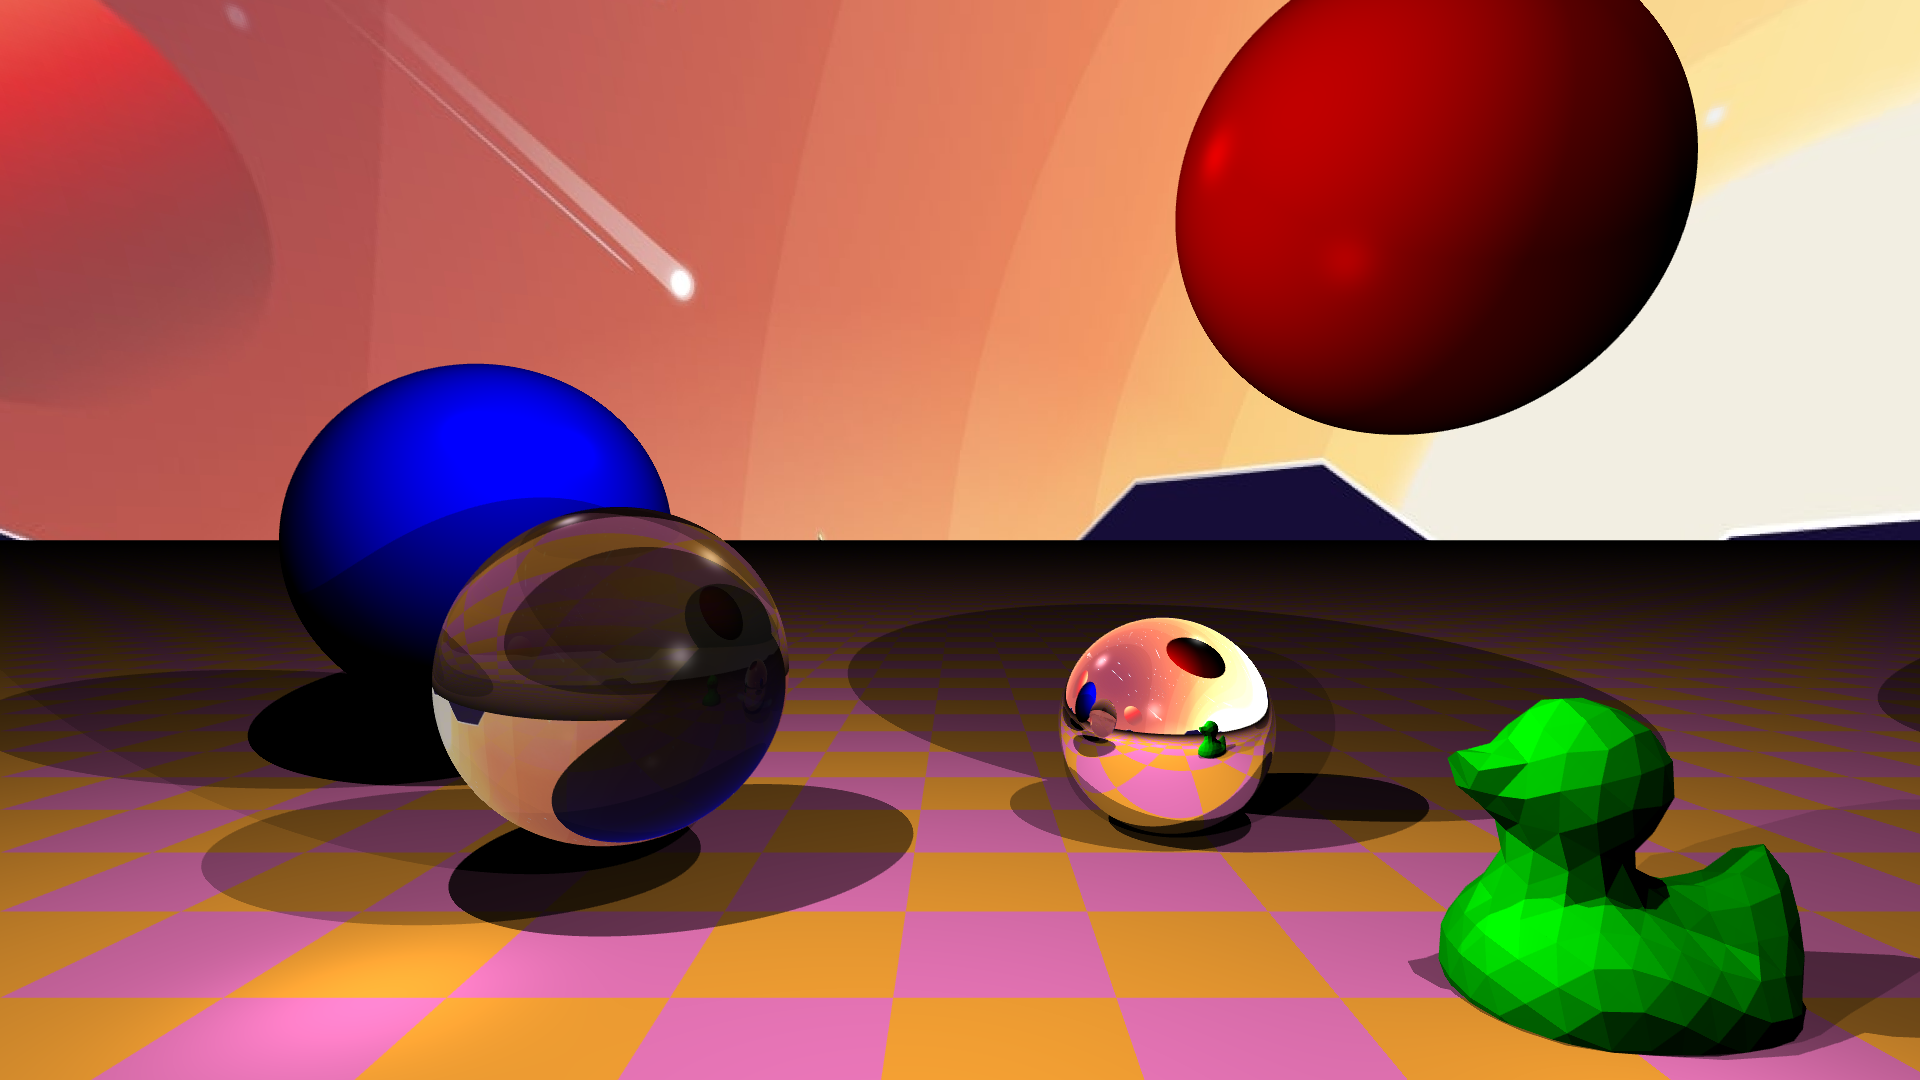
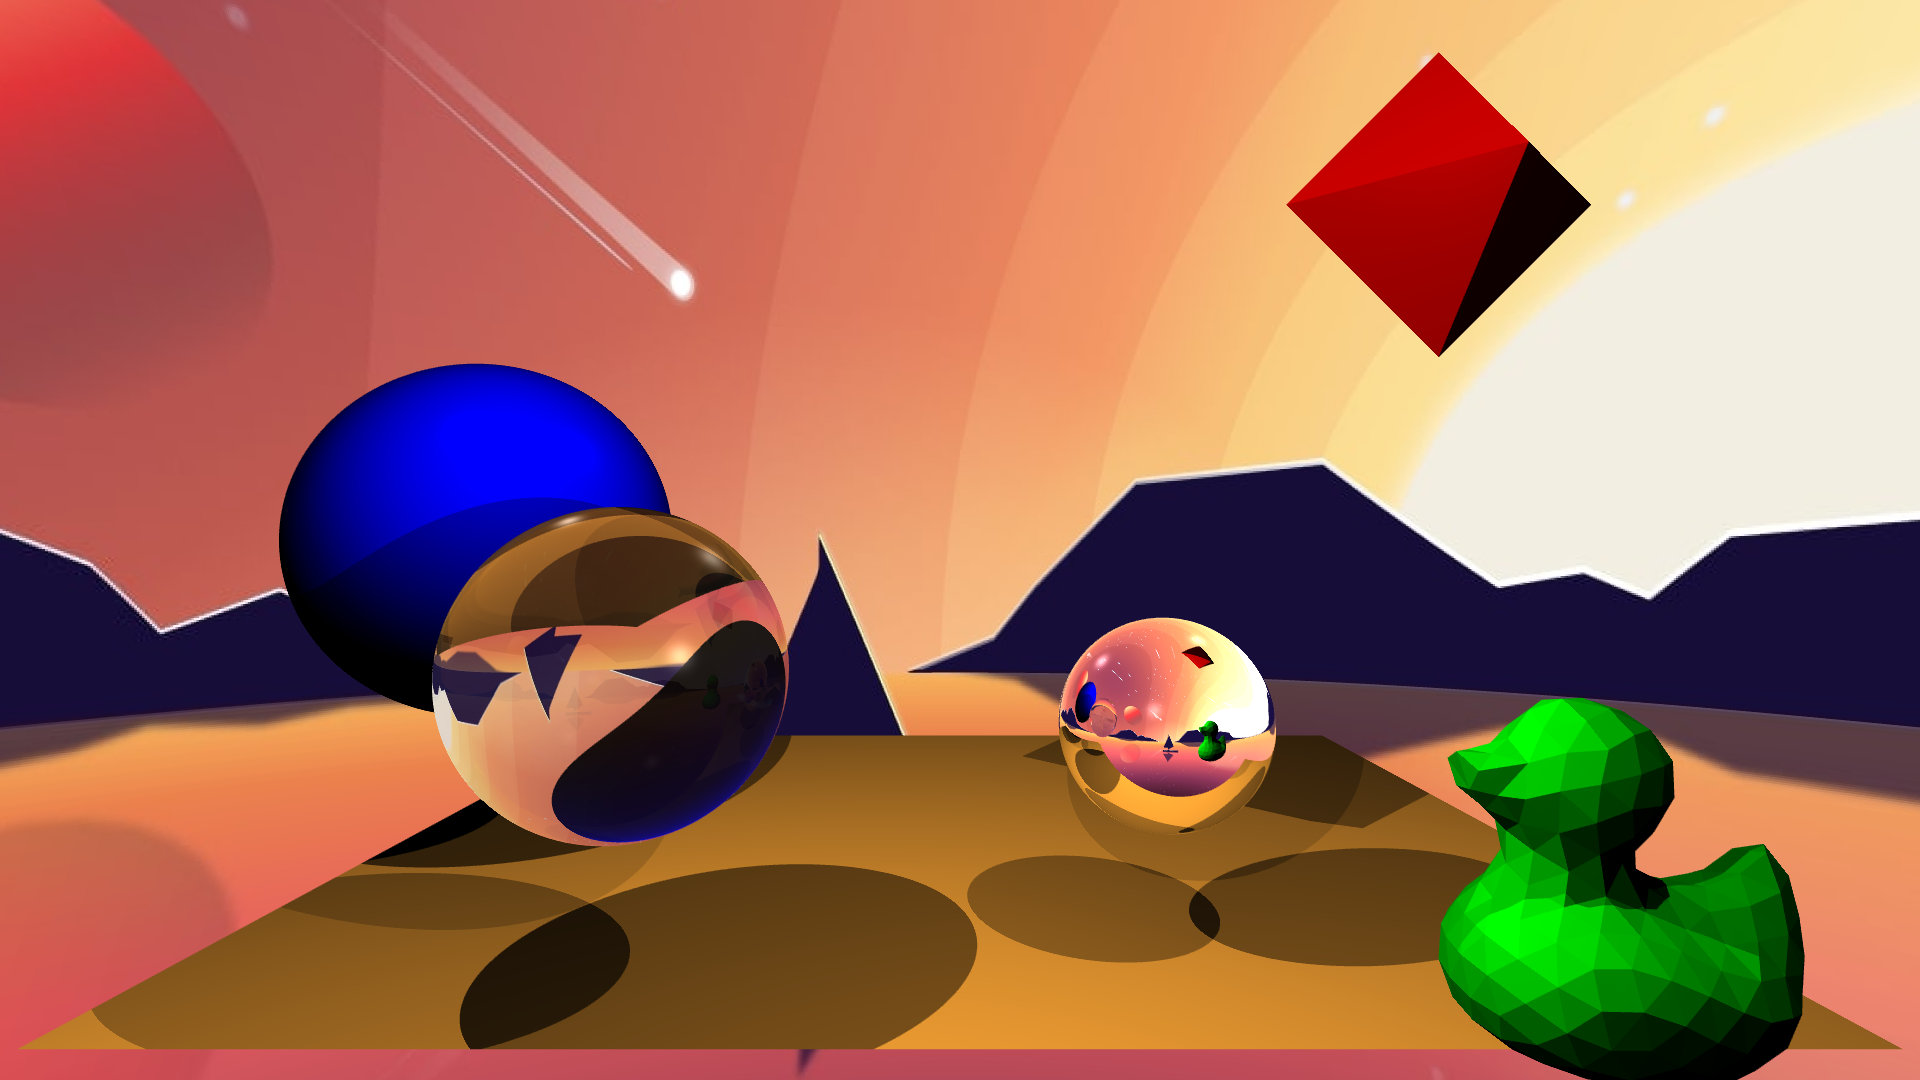
Changed scenes

diff --git a/main.cpp b/main.cpp
@@ -160,7 +160,7 @@ RGB cast_ray(const Ray &ray, const std::vector<Object *> &objects,
             Ray refraction_ray(refract_start, refract_dir.normalize());
 
             // Casting refraction ray
-            refraction_result = cast_ray(refraction_ray, objects, lights, depth + 1) * 0.9;
+            refraction_result = cast_ray(refraction_ray, objects, lights, depth + 1);
         } else {
             reflection_result = reflection_result * 0.9;
         }
@@ -308,26 +308,36 @@ int main (int argc, char **argv) {
     switch (scene_number)
     {
         // Basic scene
+        // Bubbles underwater
     case 1:
 
         w = 1280, h = 720;
+        smoothness = 2;
 
-        load_bg_img("white_mountains.jpg");
+        // load_bg_img("white_mountains.jpg");
+        load_bg_img("underwater.jpg");
 
         lights.push_back(Light(Point( 1500, -350, -300), 0.5));
-        lights.push_back(Light(Point(430, 0, -100), 0.75));
-        lights.push_back(Light(Point(1000, 550, -400), 0.4));
+        lights.push_back(Light(Point(430, 0, -100), 0.4));
+        lights.push_back(Light(Point(1000, 550, -400), 0.75));
 
-        objects.push_back(new Sphere(300, Point(150, 540, 700), get_material(PLASTIC, BLUE)));    // Blue under the tree
-        objects.push_back(new Sphere(150, Point(1250, 800, 400), get_material(METAL, BLUE))); // Mirror on the right
+        objects.push_back(new Sphere(300, Point(150, 540, 700), get_material(METAL, BLUE)));    // Blue under the tree
+        objects.push_back(new Sphere(150, Point(1250, 800, 200), get_material(GLASS, BLUE))); // Mirror on the right
         objects.push_back(new Sphere(200, Point(550, 700, 200), get_material(GLASS)));  // Glass under the tree
-        
+        objects.push_back(new Sphere(50, Point(1550, 100, 300), get_material(METAL)));
+        objects.push_back(new Sphere(80, Point(1550, 900, 700), get_material(PLASTIC, BLUE)));
+        objects.push_back(new Sphere(50, Point(100, 300, 400), get_material(PLASTIC, LIGHT_BLUE)));
+        objects.push_back(new Sphere(150, Point(960, 100, 300), get_material(METAL)));
+        objects.push_back(new Sphere(80, Point(1300, 300, 200), get_material(PLASTIC, LIGHT_BLUE)));
+
+
+
         // objects.push_back(new SceneFloor(Point(950, 950, 0), get_material(PLASTIC, DARK_PINK), WHITE, 200));   // Floor
-        objects.push_back(new Rectangle(fpos, get_material(PLASTIC, DARK_PINK), fpos + Point(-1100, 0, -800), fpos + Point(-1100, 0, 1000), fpos + Point(1100, 0, 1000), fpos + Point(1100, 0, -800)));
+        // objects.push_back(new Rectangle(fpos, get_material(PLASTIC, DARK_PINK), fpos + Point(-1100, 0, -800), fpos + Point(-1100, 0, 1000), fpos + Point(1100, 0, 1000), fpos + Point(1100, 0, -800)));
 
 
-        load_object("cube.obj", Point(1400, 850, 0), get_material(PLASTIC, GREEN), 100, objects);
-        load_object("Octahedron.obj", Point(1550, 100, 300), get_material(PLASTIC, RED), 400, objects);
+        // load_object("cube.obj", Point(1400, 850, 0), get_material(PLASTIC, WHITE), 100, objects);
+        // load_object("Octahedron.obj", Point(1550, 100, 300), get_material(PLASTIC, RED), 400, objects);
         
         break;
 
@@ -350,11 +360,13 @@ int main (int argc, char **argv) {
         objects.push_back(new Sphere(300, Point(150, 540, 700), get_material(PLASTIC, BLUE)));    // Blue under the tree
         objects.push_back(new Sphere(150, Point(1250, 800, 400), get_material(METAL, BLUE))); // Mirror on the right
         objects.push_back(new Sphere(200, Point(550, 700, 200), get_material(GLASS)));  // Glass under the tree
-        objects.push_back(new Sphere(300, Point(1550, 100, 300), get_material(PLASTIC, RED))); // Red in the air
 
-        objects.push_back(new SceneFloor(Point(950, 950, 0), get_material(PLASTIC, ORANGE), PINK, 200));   // Floor
+        // objects.push_back(new SceneFloor(Point(950, 950, 0), get_material(PLASTIC, ORANGE), PINK, 200));   // Floor
+        objects.push_back(new Rectangle(fpos, get_material(PLASTIC, ORANGE), fpos + Point(-1100, 0, -800), fpos + Point(-1100, 0, 1000), fpos + Point(1100, 0, 1000), fpos + Point(1100, 0, -800)));
+
 
         load_object("duck.obj", Point(1250, 750, 450), get_material(PLASTIC, GREEN), 60, objects, 1, -1, 1);
+        load_object("Octahedron.obj", Point(1550, 100, 300), get_material(PLASTIC, RED), 400, objects);
 
         break;
 
